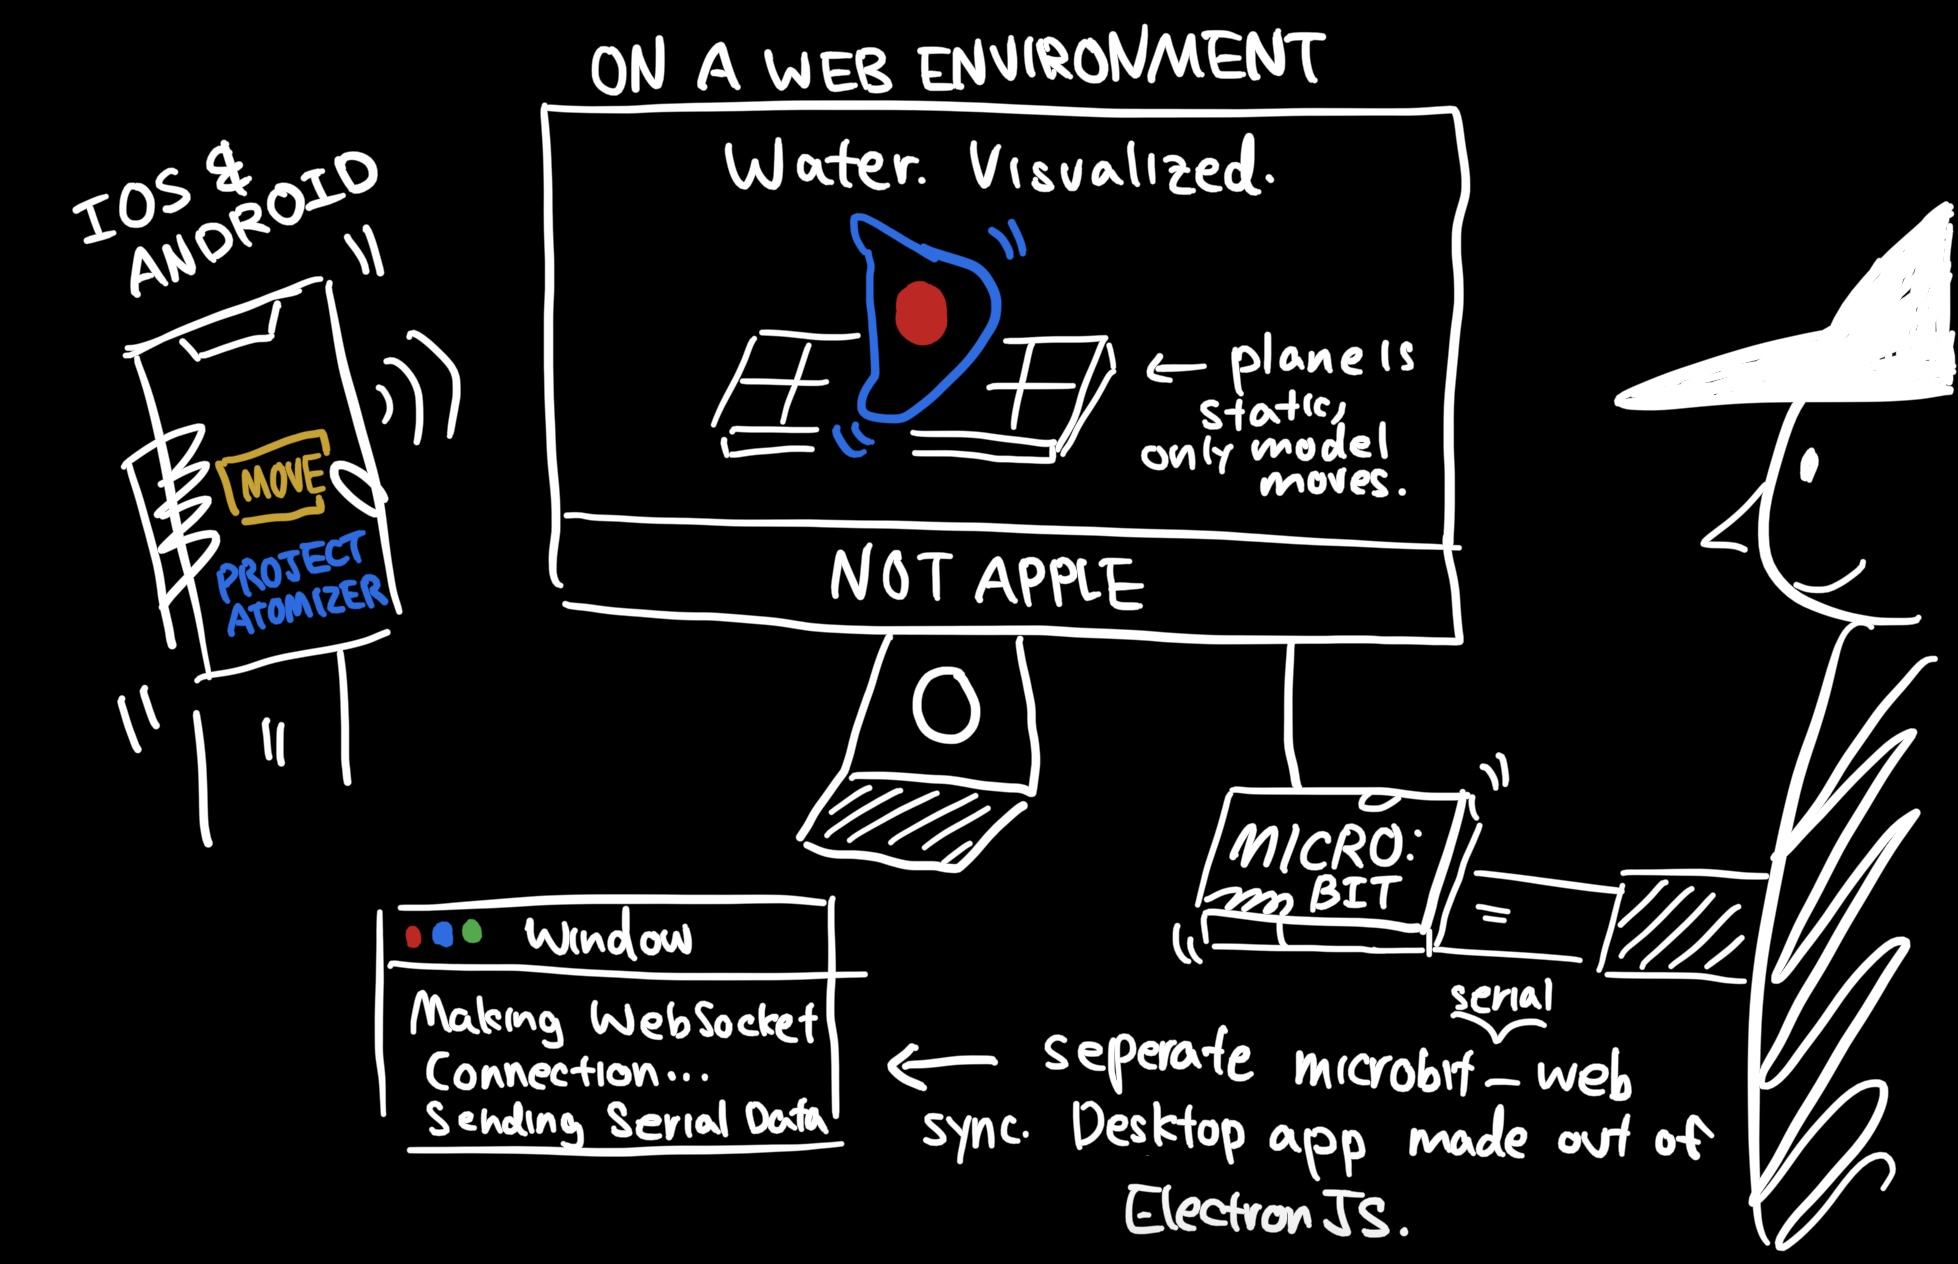
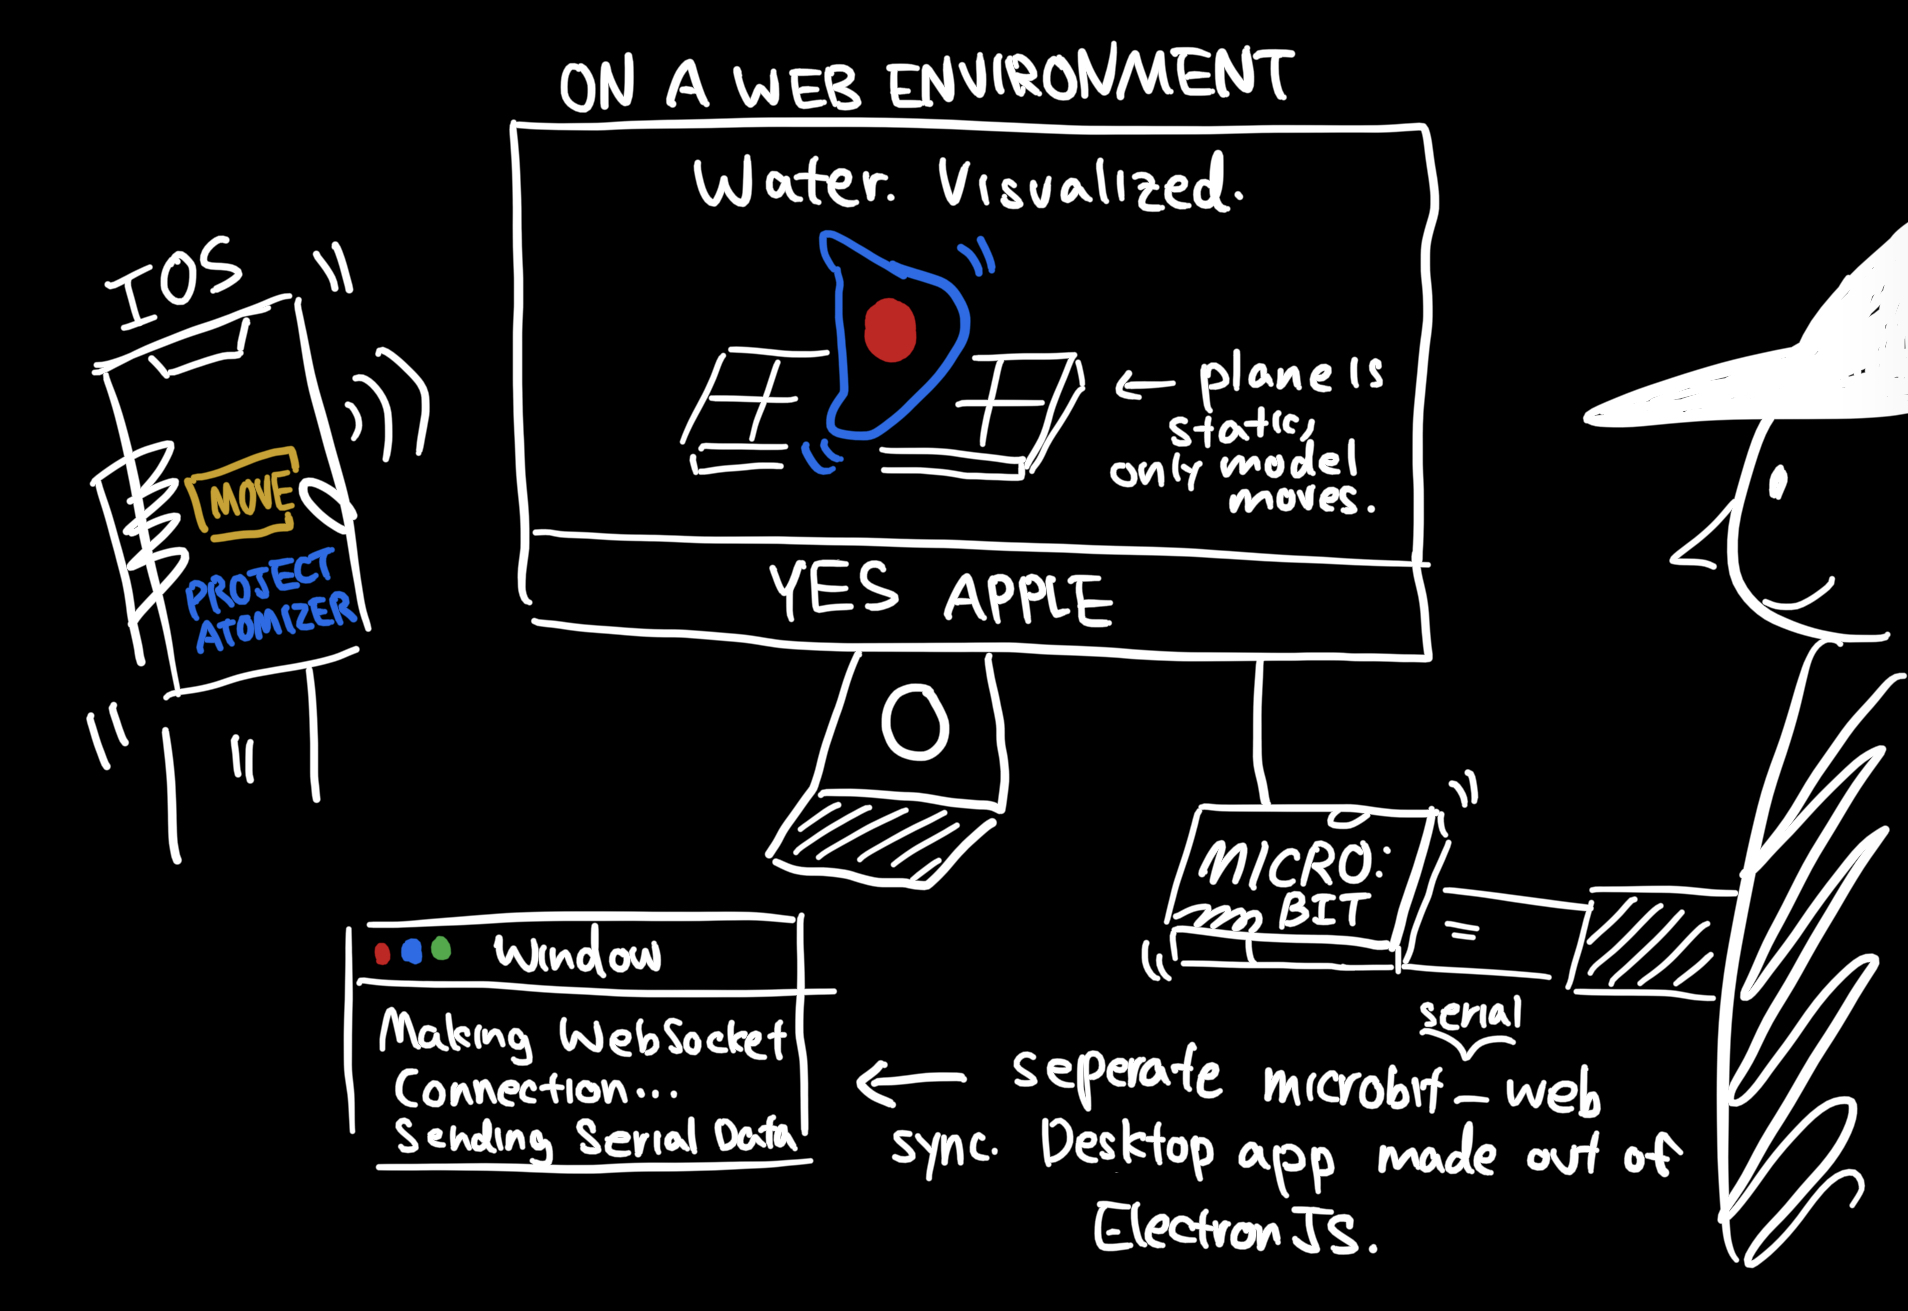
Removed references of objects that are out of App Store Guidelines
Removed the reference of name of the OS Alphabet has developed in the past. (You know what I'm saying) This was done due to strict App Store Guidelines by Apple.

Changed region(s): [[0.0309, 0.0, 1.0, 0.9873], [0.9895, 0.4937, 1.0, 0.5245]]

diff --git a/desktop/main.js b/desktop/main.js
@@ -1,7 +1,10 @@
 // Modules to control application life and create native browser window
-const { ipcMain, app, BrowserWindow } = require('electron')
+const { ipcMain, app, BrowserWindow, TouchBar, nativeImage } = require('electron')
+const { TouchBarButton } = TouchBar
 
 const path = require('path')
+
+let isSuccess = false
 
 // Reloads the window when renderer.js detects a button click...
 ipcMain.on("reload", (event, args) => {
@@ -15,10 +18,16 @@ const getData = (win, func) => {
 }
 
 const checkOnlineStatus = (win) => {
+    isSuccess = true
     win.webContents.on("did-fail-load", function() {
         win.loadFile(path.join(__dirname, "error.html"))
+        isSuccess = false
     })
 }
+
+let counter = 0;
+
+const image = nativeImage.createFromPath('./assets/icon.png').resize({ height: 20 });
 
 let mainWindow = null
 
@@ -34,8 +43,28 @@ function createWindow() {
         }
     })
 
+    const button = new TouchBarButton({
+        icon: image,
+        iconPosition: 'left',
+        label: "Okay, Let's get going then!",
+        accessibilityLabel: 'Button looking like a label',
+        backgroundColor: '#3A3B3C',
+        click: () => {
+            if (isSuccess == false) {
+                getData(mainWindow, checkOnlineStatus)
+            }
+        },
+    })
+
+    const touchBar = new TouchBar({
+        items: [
+            button,
+        ],
+    })
+
     // and load the index.html of the app.
     mainWindow.loadFile(path.join(__dirname, "index.html"))
+    if (process.platform == 'darwin') mainWindow.setTouchBar(touchBar)
 
     // Open the DevTools.
     // mainWindow.webContents.openDevTools()
@@ -46,19 +75,10 @@ function createWindow() {
 // Some APIs can only be used after this event occurs.
 app.whenReady().then(() => {
     createWindow()
-
-    app.on('activate', function() {
-        // On macOS it's common to re-create a window in the app when the
-        // dock icon is clicked and there are no other windows open.
-        if (BrowserWindow.getAllWindows().length === 0) createWindow()
-    })
 })
 
-// Quit when all windows are closed, except on macOS. There, it's common
-// for applications and their menu bar to stay active until the user quits
-// explicitly with Cmd + Q.
 app.on('window-all-closed', function() {
-    if (process.platform !== 'darwin') app.quit()
+    app.quit()
 })
 
 // In this file you can include the rest of your app's specific main process

diff --git a/client/src/components/Extensions.jsx b/client/src/components/Extensions.jsx
@@ -147,7 +147,7 @@ export default function Extensions() {
           <p className="p-5 text-white">
             An Universal Solution to Controlling and Manipulating 3D Objects.
             <br></br>
-            <b>iOS</b> and <b>Android</b>, as well as <b>micro:bit</b> versions
+            <b>iOS</b>, as well as <b>micro:bit</b> versions
             are in <b>development</b>.
           </p>
 
